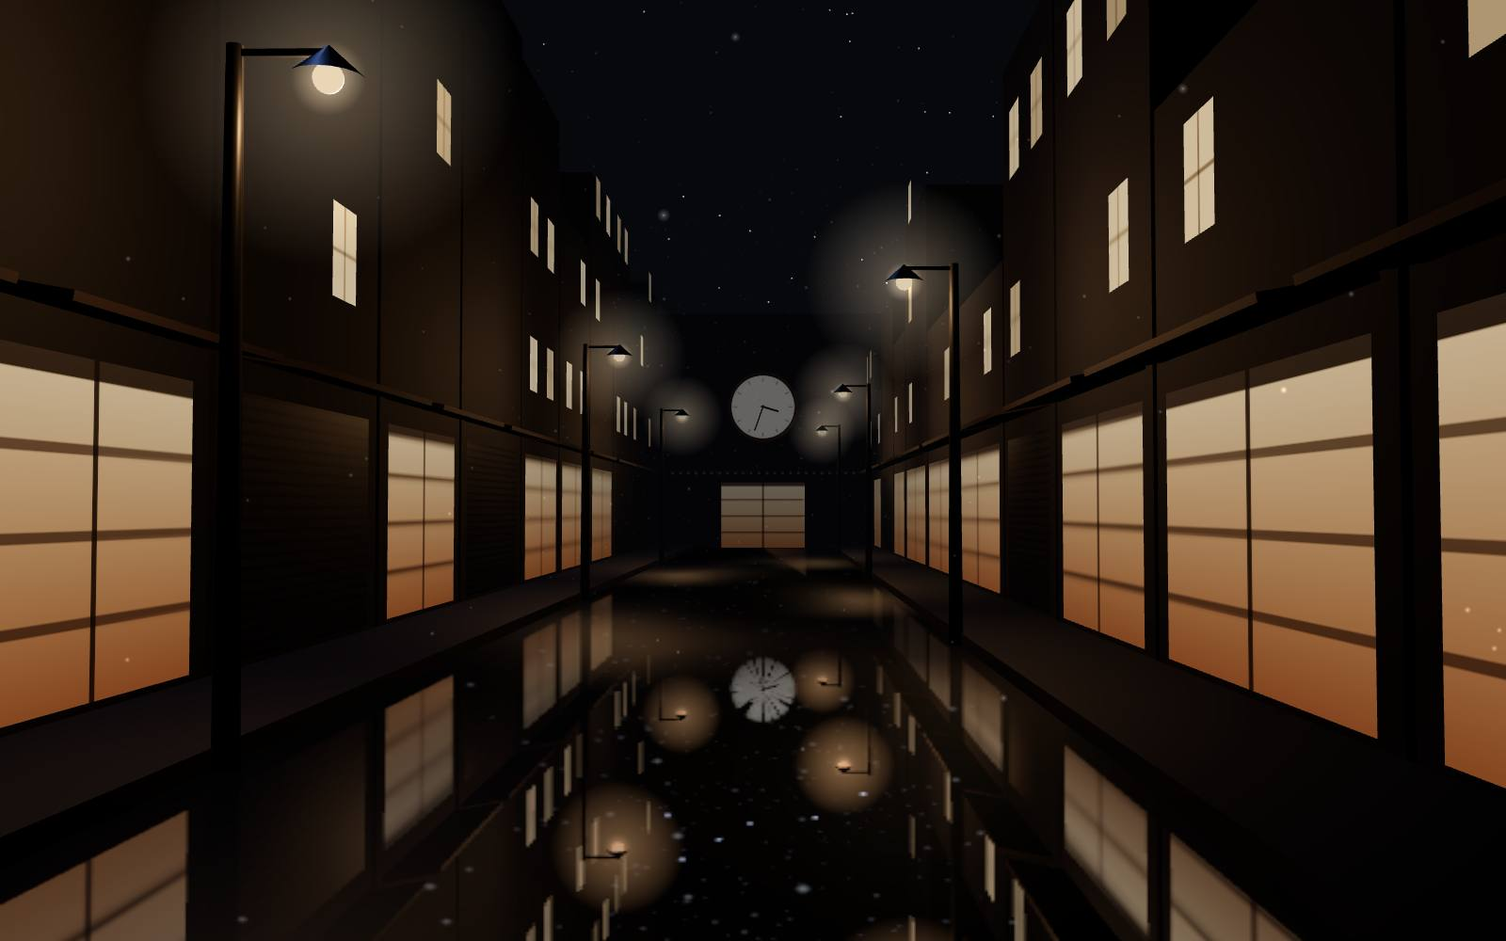
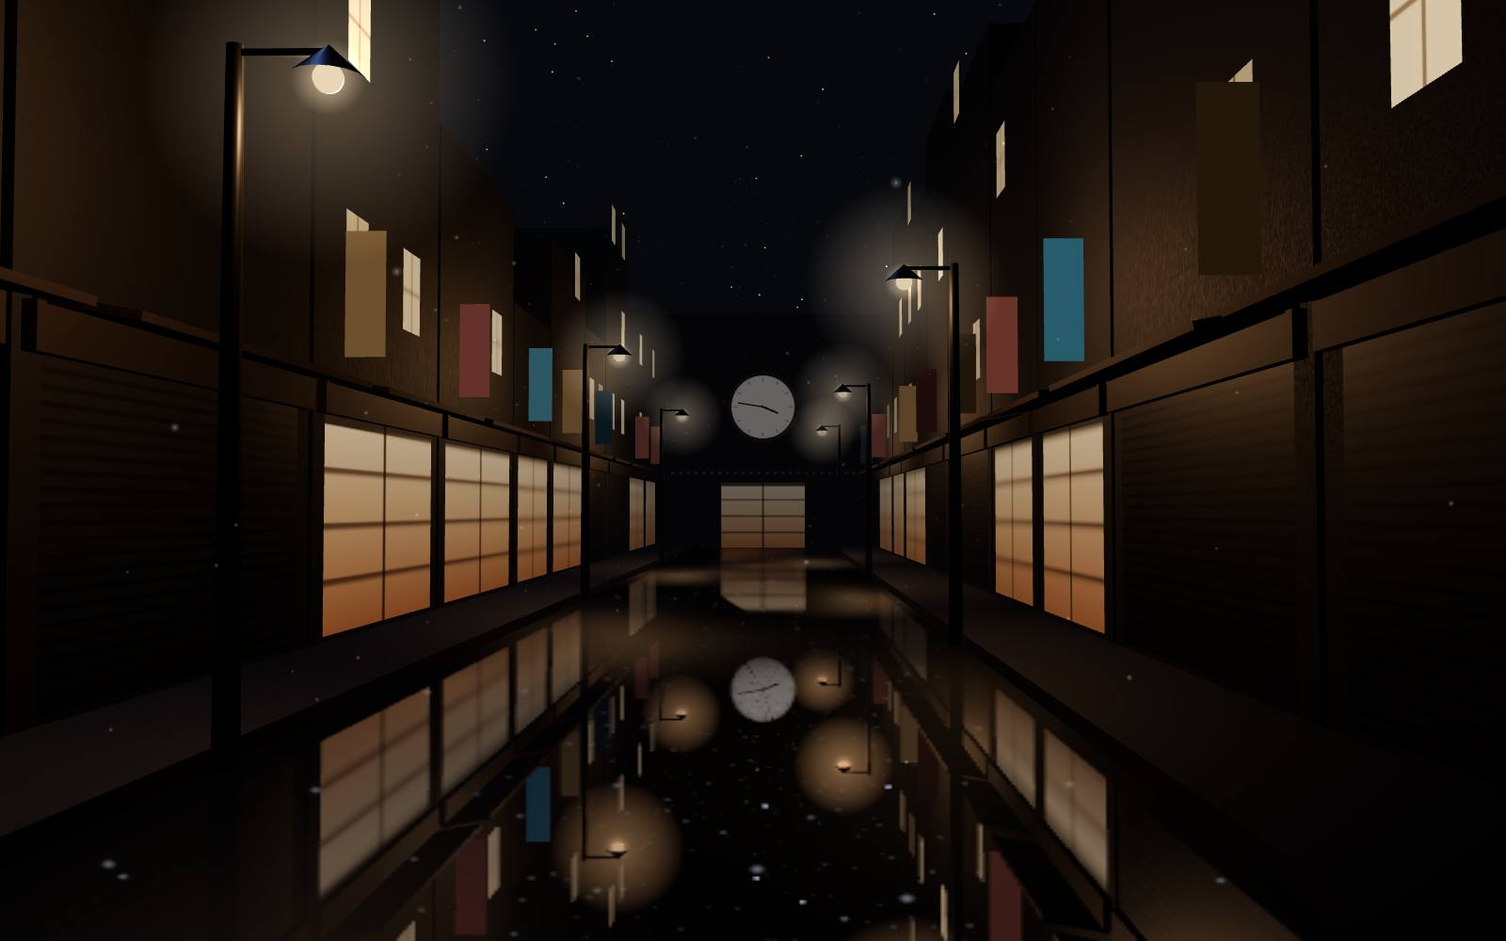
S02-02：審査1回目の指摘を反映（明朝の英字の欠け、320px のはみ出し、物語は6本の街灯が順に消えて店も閉じる、出演は選んだ人の灯へ寄る、袖看板と幕板、表記の統一）
Claude-Session: https://claude.ai/code/session_01BwmUGTgfPEj1Tu5124aDtq

diff --git a/studio/projects/S02-02-hoshikuzu/site/app.js b/studio/projects/S02-02-hoshikuzu/site/app.js
@@ -8,8 +8,8 @@ const md = s => { const [, m, d] = s.split('-').map(Number); return `${m}.${d}`;
 
 // 文字（facts.json から）
 $('genre').textContent = F.genre; $('kana').textContent = F.kana; $('title').textContent = F.title; $('en').textContent = F.en; $('copy').textContent = F.copy;
-$('when').append(md(F.period.from), el('small', null, F.period.from_wd), '— ', md(F.period.to), el('small', null, F.period.to_wd), el('small', null, `${F.period.from.slice(0, 4)}年`));
-$('where').textContent = `${F.venue}（客席${F.seats}席）`;
+$('when').append(el('span', 'yr', F.period.from.slice(0, 4)), md(F.period.from), el('small', null, F.period.from_wd), '— ', md(F.period.to), el('small', null, F.period.to_wd));
+$('where').textContent = `${F.venue}（全${F.seats}席）`;
 for (const p of F.story) $('story').append(el('p', null, p));
 for (const s of F.scenes) { const li = el('li'); li.append(el('span', 'no', s.no), el('span', 't', s.title), el('span', 'x', s.text)); $('scenes').append(li); }
 for (const [k, v] of F.credits) $('credits').append(el('dt', null, k), el('dd', null, v));
@@ -19,8 +19,8 @@ const cards = F.cast.map((c, i) => {
 });
 const sale = $('sale'); sale.append(`${F.sale.date.slice(0, 4)}.${md(F.sale.date)}`, el('small', null, `（${F.sale.wd}）${F.sale.label}`));
 const row = (k, v) => { const d = el('div'); d.append(el('dt', null, k), el('dd', null, v)); $('tinfo').append(d); };
-row('期間', `${F.period.from.replaceAll('-', '.')}（${F.period.from_wd}）〜${md(F.period.to)}（${F.period.to_wd}）`);
-row('開演', F.times.map(([a, b]) => `${a} ${b}`).join('　')); row('上演時間', F.running); row('劇場', `${F.venue}（全${F.seats}席）`);
+row('期間', `${F.period.from.slice(0, 4)}.${md(F.period.from)}（${F.period.from_wd}）— ${md(F.period.to)}（${F.period.to_wd}）`);
+F.times.forEach(([a, b], i) => row(i ? '' : '開演', `${a}　${b}`)); row('上演時間', F.running); row('劇場', `${F.venue}（全${F.seats}席）`);
 for (const [k, v] of F.prices) { const li = el('li', null, k); li.append(el('b', null, v)); $('price').append(li); }
 $('pnote').textContent = F.price_note;
 $('buy').addEventListener('click', () => { $('msg').textContent = '見本のため、チケットの申し込みはできません。'; });
@@ -69,7 +69,10 @@ route(true);
   for (const sx of [-1, 1]) { const curb = new THREE.Mesh(new THREE.BoxGeometry(1.4, .14, 90), stone); curb.position.set(sx * 3.3, .07, -18); scene.add(curb); }
 
   // 両側の店：1階は店の窓（開いている店は灯り、閉じた店はシャッター）、上の階は窓がまばらに灯る
-  const wall = new THREE.MeshStandardMaterial({ color: 0x15161b, roughness: .92 });
+  const grit = canvasTex(256, 256, (g, w, h) => { const im = g.createImageData(w, h); for (let k = 0; k < w * h; k++) { const v = 205 + rnd() * 50; im.data.set([v, v, v, 255], k * 4); } g.putImageData(im, 0, 0); });
+  grit.wrapS = grit.wrapT = THREE.RepeatWrapping; grit.repeat.set(3, 3);
+  const wall = new THREE.MeshStandardMaterial({ color: 0x1a1b21, roughness: 1, map: grit, roughnessMap: grit });
+  const fascia = new THREE.MeshStandardMaterial({ color: 0x221c18, roughness: .7 });
   const shopTex = canvasTex(256, 160, (g, w, h) => { const gr = g.createLinearGradient(0, 0, 0, h); gr.addColorStop(0, '#ffdcae'); gr.addColorStop(1, '#a8673a'); g.fillStyle = gr; g.fillRect(0, 0, w, h); g.fillStyle = 'rgba(40,24,12,.55)'; for (let y = 40; y < h; y += 40) g.fillRect(0, y, w, 5); g.fillStyle = 'rgba(30,18,10,.8)'; g.fillRect(0, 0, w, 10); g.fillRect(w / 2 - 3, 0, 6, h); });
   const shutTex = canvasTex(64, 128, (g, w, h) => { g.fillStyle = '#2a2b30'; g.fillRect(0, 0, w, h); g.fillStyle = '#1a1b1f'; for (let y = 0; y < h; y += 6) g.fillRect(0, y, w, 2); });
   const winTex = canvasTex(32, 48, (g, w, h) => { g.fillStyle = '#ffd9a6'; g.fillRect(0, 0, w, h); g.fillStyle = 'rgba(60,40,20,.5)'; g.fillRect(w / 2 - 1, 0, 2, h); g.fillRect(0, h / 2 - 1, w, 2); });
@@ -81,7 +84,10 @@ route(true);
       const open = rnd() > .45;  // 店の正面（通りに向く面）は x=±4.0
       const m = new THREE.Mesh(new THREE.PlaneGeometry(wdt - .7, 2.3), open ? new THREE.MeshStandardMaterial({ color: 0x000000, emissive: 0xffffff, emissiveMap: shopTex, emissiveIntensity: .5 }) : new THREE.MeshStandardMaterial({ map: shutTex, roughness: .6, metalness: .5 }));
       m.position.set(sx * 3.99, 1.35, cz); m.rotation.y = -sx * Math.PI / 2; scene.add(m);
-      if (open) shops.push(m.material);
+      if (open) shops.push({ m: m.material, sx, z: cz, I: .5, tI: .5, at: 0 });
+      const fb = new THREE.Mesh(new THREE.BoxGeometry(.1, .32, wdt - .3), fascia); fb.position.set(sx * 3.95, 2.62, cz); scene.add(fb);
+      // 袖看板（店名は載せない色の面）。通りの奥へ向けて張り出す
+      if (rnd() > .3) { const sg = new THREE.Mesh(new THREE.PlaneGeometry(.42, 1.3), new THREE.MeshStandardMaterial({ color: 0, emissive: new THREE.Color().setHSL([.02, .08, .55, .95][Math.floor(rnd() * 4)], .6, .42), emissiveIntensity: open ? .22 : .05, side: THREE.DoubleSide })); sg.position.set(sx * 3.62, 3.7, cz + wdt / 2 - .45); scene.add(sg); }
       const aw = new THREE.Mesh(new THREE.BoxGeometry(.7, .06, wdt - .5), new THREE.MeshStandardMaterial({ color: 0x241a16, roughness: .7 })); aw.position.set(sx * 3.65, 2.75, cz); aw.rotation.z = sx * .18; scene.add(aw);
       for (let f = 1; f < hgt / 2.6 - .4; f++) for (let c = -1; c <= 1; c += 2) {
         if (rnd() < .55) continue;
@@ -120,7 +126,7 @@ route(true);
     const glow = new THREE.Sprite(new THREE.SpriteMaterial({ map: glowTex, color: WARM.clone(), blending: THREE.AdditiveBlending, depthWrite: false, transparent: true, fog: false })); glow.position.copy(headPos); glow.scale.setScalar(2.2); g.add(glow);
     const light = new THREE.PointLight(WARM.clone(), 0, 11, 1.6); light.position.copy(headPos).add(new THREE.Vector3(0, -.15, 0)); g.add(light);
     const world = headPos.clone().add(g.position);
-    return { light, bulbMat, glow, world, I: 0, col: WARM.clone(), tI: 0, tCol: WARM.clone(), at: 0, off: false };
+    return { light, bulbMat, glow, world, x, z, I: 0, col: WARM.clone(), tI: 0, tCol: WARM.clone(), at: 0, off: false, S: 2.2, tS: 2.2 };
   });
 
   // 空：星と、ゆっくり降る雪
@@ -141,27 +147,31 @@ route(true);
   const V = (x, y, z) => new THREE.Vector3(x, y, z);
   const POSE = {
     top: { p: V(.5, 1.45, 7), t: V(0, 2.4, -22) },
-    story: { p: V(-1.3, 1.7, -22.5), t: V(.4, 3.6, -40) },
+    story: { p: V(1.8, 2.2, 6), t: V(-.5, 2.8, -30) },
     cast: { p: V(1.3, 2.1, 4), t: V(-.4, 1.9, -14) },
     ticket: { p: V(0, 4.6, 3), t: V(0, 2.6, -40) },
   };
   const LOOK = {
     top: { lamps: () => [1, 1, 1, 1, 1, 1].map(v => [v * 16, WARM]), moon: .25, shops: .5, end: 0, marquee: 0 },
     // 物語：店が閉じるたびに街灯がひとつずつ消える。残るのは手前・中ほど・時計店の前の3本
-    story: { lamps: () => [1, 0, 1, 0, 0, 1].map(v => [v * 14, WARM]), moon: 1.1, shops: .22, end: 9, marquee: 0 },
-    cast: { lamps: () => [...F.cast.map((c, i) => [pick < 0 ? 9 : i === pick ? 30 : 2.5, new THREE.Color().setHSL(c.hue / 360, .85, .66)]), [0, WARM]], moon: .3, shops: .16, end: 0, marquee: 0 },
+    story: { lamps: () => [1, 0, 1, 0, 0, 1].map(v => [v * 14, WARM]), moon: .6, shops: .3, end: 9, marquee: 0 },
+    cast: { lamps: () => [...F.cast.map((c, i) => [pick < 0 ? 9 : i === pick ? 40 : .6, new THREE.Color().setHSL(c.hue / 360, .85, .66)]), [0, WARM]], moon: .3, shops: .16, end: 0, marquee: 0 },
     ticket: { lamps: () => [1, 1, 1, 1, 1, 1].map(v => [v * 22, WARM]), moon: .2, shops: .7, end: 18, marquee: 1 },
   };
-  let look = LOOK.top, from = null, to = POSE.top, tw = 1, twStart = 0, moonT = .25, shopT = .5, endT = 0, mq = 0, mqT = 0;
+  let twDur = 1.8, look = LOOK.top, from = null, to = POSE.top, tw = 1, twStart = 0, moonT = .25, shopT = .5, endT = 0, mq = 0, mqT = 0;
   const curP = POSE.top.p.clone(), curT = POSE.top.t.clone();
   function apply(p, first) {
     look = LOOK[p]; moonT = look.moon; shopT = look.shops; endT = look.end; mqT = look.marquee;
     const now = performance.now() / 1000, L = look.lamps();
-    lamps.forEach((l, i) => { const [I, c] = L[i]; l.off = I < l.tI - 1; l.tI = I; l.tCol.copy(c); l.at = now + (first || reduce ? 0 : (p === 'story' ? [0, .5, 0, 1.1, 1.6, 0][i] : i * .12)); });
-    from = { p: curP.clone(), t: curT.clone() }; to = POSE[p]; tw = first || reduce ? 1 : 0; twStart = now;
+    lamps.forEach((l, i) => { const [I, c] = L[i]; l.off = I < l.tI - 1; l.tI = I; l.tCol.copy(c); l.tS = p === 'cast' && i === pick ? 3.6 : 2.2; l.at = now + (first || reduce ? 0 : (p === 'story' ? [0, .6, 0, 1.2, 1.8, 0][i] : i * .12)); });
+    // 物語では、消えた街灯のそばの店も同じ瞬間に灯りを落とす（店が閉じる）
+    for (const sh of shops) { const near = lamps.find(l => Math.sign(l.x) === sh.sx && Math.abs(l.z - sh.z) < 3.4); const dark = p === 'story' && near && near.tI < 1; sh.tI = dark ? 0 : shopT; sh.at = dark ? near.at : now; }
+    from = { p: curP.clone(), t: curT.clone() }; to = POSE[p]; tw = first || reduce ? 1 : 0; twStart = now; twDur = 1.8;
+    // 出演でカードを選んだら、その人の街灯の手前へ寄る
+    if (p === 'cast' && pick >= 0) { const l = lamps[pick]; to = { p: V(-Math.sign(l.x) * .5, 2.1, l.z + 7.5), t: l.world.clone().add(V(Math.sign(l.x) * -.6, -1.7, 0)) }; twDur = 1.2; }
     if (first || reduce) { curP.copy(to.p); curT.copy(to.t); }
   }
-  onPage = apply; onPick = () => { if (page === 'cast') { apply('cast', false); tw = 1; } };
+  onPage = apply; onPick = () => { if (page === 'cast') apply('cast', false); };
   apply(page, true);
 
   function fit() { const w = box.clientWidth, h = box.clientHeight; r.setSize(w, h, false); cam.aspect = w / h; cam.fov = w < h ? 64 : 42; cam.updateProjectionMatrix(); }
@@ -179,10 +189,10 @@ route(true);
       l.I += (l.tI - l.I) * (l.off ? 1 - Math.exp(-dt * 2.5) : k); l.col.lerp(l.tCol, k);
       let I = l.I; if (l.off && now - l.at < .45 && !reduce) I *= (Math.sin((now - l.at) * 70) > 0 ? 1 : .15);
       l.light.intensity = I; l.light.color.copy(l.col);
-      const s = Math.min(1, I / 14); l.bulbMat.color.copy(l.col).multiplyScalar(.08 + s * 1.2); l.glow.material.color.copy(l.col); l.glow.material.opacity = s * .9;
+      const s = Math.min(1, I / 14); l.bulbMat.color.copy(l.col).multiplyScalar(.08 + s * 1.2); l.glow.material.color.copy(l.col); l.glow.material.opacity = s * .9; l.S += (l.tS - l.S) * k; l.glow.scale.setScalar(l.S);
     }
     moon.intensity += (moonT - moon.intensity) * k; endLight.intensity += (endT - endLight.intensity) * k; mq += (mqT - mq) * k;
-    for (const m of shops) m.emissiveIntensity += (shopT - m.emissiveIntensity) * k;
+    for (const sh of shops) { if (now >= sh.at) { sh.I += (sh.tI - sh.I) * (sh.tI < sh.I ? 1 - Math.exp(-dt * 3) : k); sh.m.emissiveIntensity = sh.I; } }
     // 時計店の電飾：3つおきに光が走る
     const ph = Math.floor(now * 6); const c = new THREE.Color();
     for (let i = 0; i < 24; i++) { const on = reduce ? 1 : ((i + ph) % 3 === 0 ? 1 : .25); bulbs.setColorAt(i, c.setRGB(1, .82, .55).multiplyScalar(.04 + mq * on * 1.4)); }
@@ -191,8 +201,8 @@ route(true);
     // 雪
     if (!reduce) { for (let i = 0; i < N; i++) { snow[i * 3 + 1] -= sv[i] * dt; snow[i * 3] += Math.sin(now * .7 + i) * .002; if (snow[i * 3 + 1] < 0) snow[i * 3 + 1] = 9; } ng.attributes.position.needsUpdate = true; }
     // カメラ：ページの移り変わりは 1.8 秒で移動、止まっている間もごくゆっくり揺れる
-    if (tw < 1) { tw = Math.min(1, (now - twStart) / 1.8); const e = ease(tw); curP.lerpVectors(from.p, to.p, e); curT.lerpVectors(from.t, to.t, e); }
-    aim.copy(curT); if (page === 'cast' && pick >= 0) aim.lerp(lamps[pick].world, .55);
+    if (tw < 1) { tw = Math.min(1, (now - twStart) / twDur); const e = ease(tw); curP.lerpVectors(from.p, to.p, e); curT.lerpVectors(from.t, to.t, e); }
+    aim.copy(curT);
     cpos.copy(curP); if (!reduce) { cpos.x += Math.sin(now * .21) * .12; cpos.y += Math.sin(now * .17) * .05; }
     cam.position.copy(cpos); cam.userData.a = cam.userData.a || curT.clone(); cam.userData.a.lerp(aim, k * .6 + (tw < 1 ? .4 : 0)); cam.lookAt(cam.userData.a);
     // 縦長の画面では、物語・出演・チケットの板が下半分を覆うので、絵の中心を上へずらす

diff --git a/studio/projects/S02-02-hoshikuzu/site/index.html b/studio/projects/S02-02-hoshikuzu/site/index.html
@@ -6,7 +6,7 @@
 <title>ミュージカル『星屑通り』公式サイト（見本）</title>
 <meta name="description" content="架空のオリジナル・ミュージカル『星屑通り』の特設サイトの見本。夜の商店街のセットの照明が、ページごとに変わる（天狼スタジオ制作）。">
 <link rel="preconnect" href="https://fonts.googleapis.com">
-<link id="fm" rel="stylesheet" href="https://fonts.googleapis.com/css2?family=Shippori+Mincho:wght@500;600&display=swap&text=0123456789%E3%80%80%E3%80%81%E3%80%82%E3%80%8C%E3%80%8D%E3%80%8E%E3%80%8F%E3%80%9C%E3%81%82%E3%81%84%E3%81%86%E3%81%88%E3%81%8A%E3%81%8B%E3%81%8C%E3%81%8D%E3%81%8F%E3%81%91%E3%81%93%E3%81%94%E3%81%95%E3%81%97%E3%81%98%E3%81%99%E3%81%9A%E3%81%9B%E3%81%9D%E3%81%9F%E3%81%A0%E3%81%A1%E3%81%A3%E3%81%A4%E3%81%A6%E3%81%A7%E3%81%A8%E3%81%A9%E3%81%AA%E3%81%AB%E3%81%AD%E3%81%AE%E3%81%AF%E3%81%B0%E3%81%B2%E3%81%B3%E3%81%B6%E3%81%B8%E3%81%B9%E3%81%BB%E3%81%BE%E3%81%BF%E3%82%80%E3%82%81%E3%82%82%E3%82%86%E3%82%88%E3%82%89%E3%82%8A%E3%82%8B%E3%82%8C%E3%82%8F%E3%82%92%E3%82%93%E3%82%A4%E3%82%A6%E3%82%A7%E3%82%AA%E3%82%AB%E3%82%B1%E3%82%B5%E3%82%B7%E3%82%B8%E3%82%B9%E3%82%BB%E3%82%BF%E3%83%81%E3%83%83%E3%83%88%E3%83%89%E3%83%8A%E3%83%96%E3%83%97%E3%83%9A%E3%83%9F%E3%83%A1%E3%83%A3%E3%83%A5%E3%83%A9%E3%83%AA%E3%83%AB%E3%83%BB%E3%83%BC%E4%B8%80%E4%B8%88%E4%B8%89%E4%B8%8A%E4%B8%8B%E4%B8%A1%E4%B8%AD%E4%B8%B8%E4%B8%BB%E4%BA%88%E4%BA%8C%E4%BA%92%E4%BA%A4%E4%BA%BA%E4%BB%98%E4%BB%A5%E4%BC%91%E4%BC%9A%E4%BD%9C%E5%81%B4%E5%85%88%E5%85%89%E5%85%A5%E5%85%A8%E5%85%AC%E5%86%85%E5%86%86%E5%86%AC%E5%87%BA%E5%88%86%E5%88%87%E5%88%9D%E5%88%A5%E5%88%B6%E5%89%8D%E5%8A%87%E5%8B%95%E5%8D%81%E5%8D%83%E5%8D%8A%E5%8F%96%E5%8F%A4%E5%8F%B3%E5%8F%B7%E5%90%8D%E5%90%91%E5%90%AB%E5%93%81%E5%93%A1%E5%95%86%E5%96%AB%E5%9B%9B%E5%9B%9E%E5%9C%9F%E5%9C%A8%E5%9D%82%E5%A0%B1%E5%A0%B4%E5%A3%8A%E5%A3%B2%E5%A4%89%E5%A4%9C%E5%A4%A7%E5%A4%A9%E5%A7%94%E5%A8%98%E5%AD%90%E5%AD%97%E5%AE%88%E5%AE%9A%E5%AE%9F%E5%AE%A2%E5%AE%AE%E5%AE%B5%E5%AF%84%E5%B0%8F%E5%B0%91%E5%B1%91%E5%B7%A6%E5%B8%AB%E5%B8%AD%E5%B8%B3%E5%B9%95%E5%B9%B3%E5%B9%B4%E5%BA%97%E5%BB%BA%E5%BC%8F%E5%BC%95%E5%BD%93%E5%BE%8B%E5%BE%8C%E5%BF%83%E6%83%85%E6%86%A9%E6%89%80%E6%89%89%E6%89%8B%E6%8C%81%E6%8C%87%E6%8C%AF%E6%8F%BA%E6%95%B0%E6%96%87%E6%96%B9%E6%97%A5%E6%97%A9%E6%98%8E%E6%98%9F%E6%98%A0%E6%99%82%E6%9A%97%E6%9B%B8%E6%9B%BF%E6%9C%80%E6%9C%88%E6%9C%94%E6%9C%9F%E6%9C%A8%E6%9C%AC%E6%9D%BF%E6%9E%B6%E6%9F%9A%E6%A4%9C%E6%A5%BD%E6%A7%99%E6%AD%8C%E6%AD%A2%E6%AD%A3%E6%AD%B3%E6%AE%8B%E6%B0%B4%E6%B1%90%E6%B1%BA%E6%B5%81%E6%B5%B7%E6%B6%88%E6%BA%90%E6%BC%94%E6%BE%AA%E6%BF%A1%E7%80%AC%E7%81%AF%E7%82%B9%E7%85%A7%E7%89%A9%E7%89%B9%E7%8B%BC%E7%94%9F%E7%94%B3%E7%94%BA%E7%94%BB%E7%95%AA%E7%99%BA%E7%9B%B4%E7%9C%9F%E7%9D%80%E7%A2%BA%E7%A7%92%E7%A7%BB%E7%A8%8E%E7%A9%BA%E7%AA%81%E7%AA%93%E7%AB%8B%E7%B4%84%E7%B4%A2%E7%B5%A1%E7%B5%B5%E7%B8%A6%E8%80%81%E8%80%85%E8%87%AA%E8%88%AC%E8%8C%B6%E8%90%BD%E8%96%84%E8%A1%97%E8%A3%BD%E8%A6%86%E8%A6%8B%E8%A6%9A%E8%A6%B3%E8%A7%92%E8%A8%88%E8%A8%AD%E8%A9%B1%E8%AA%8D%E8%AA%9E%E8%AA%AD%E8%AA%B0%E8%AA%BF%E8%B2%A9%E8%B3%80%E8%B5%B0%E8%B7%AF%E8%BC%89%E8%BE%BC%E8%BF%91%E9%80%9A%E9%80%A3%E9%81%B8%E9%87%8D%E9%87%91%E9%95%B7%E9%96%89%E9%96%8B%E9%96%93%E9%99%8D%E9%9A%8E%E9%9B%86%E9%9B%AA%E9%9B%BB%E9%9D%A2%E9%9F%B3%E9%A1%8C%E9%A3%BE%E9%B3%B4%E9%BB%92%E9%BD%A2%EF%BC%88%EF%BC%89%EF%BC%8F%EF%BC%9A%EF%BD%9C">
+<link id="fm" rel="stylesheet" href="https://fonts.googleapis.com/css2?family=Shippori+Mincho:wght@500;600&display=swap&text=-0123456789ABCDEFGHIJKLMNOPQRSTUVWXYZ%E3%80%80%E3%80%81%E3%80%82%E3%80%8C%E3%80%8D%E3%80%8E%E3%80%8F%E3%80%9C%E3%81%82%E3%81%84%E3%81%86%E3%81%88%E3%81%8A%E3%81%8B%E3%81%8C%E3%81%8D%E3%81%8F%E3%81%91%E3%81%93%E3%81%94%E3%81%95%E3%81%97%E3%81%98%E3%81%99%E3%81%9A%E3%81%9B%E3%81%9D%E3%81%9F%E3%81%A0%E3%81%A1%E3%81%A3%E3%81%A4%E3%81%A6%E3%81%A7%E3%81%A8%E3%81%A9%E3%81%AA%E3%81%AB%E3%81%AD%E3%81%AE%E3%81%AF%E3%81%B0%E3%81%B2%E3%81%B3%E3%81%B6%E3%81%B8%E3%81%B9%E3%81%BB%E3%81%BE%E3%81%BF%E3%82%80%E3%82%81%E3%82%82%E3%82%86%E3%82%88%E3%82%89%E3%82%8A%E3%82%8B%E3%82%8C%E3%82%8F%E3%82%92%E3%82%93%E3%82%A4%E3%82%A6%E3%82%A7%E3%82%AA%E3%82%AB%E3%82%B1%E3%82%B5%E3%82%B7%E3%82%B8%E3%82%B9%E3%82%BB%E3%82%BF%E3%83%81%E3%83%83%E3%83%88%E3%83%89%E3%83%8A%E3%83%96%E3%83%97%E3%83%9A%E3%83%9F%E3%83%A1%E3%83%A3%E3%83%A5%E3%83%A9%E3%83%AA%E3%83%AB%E3%83%BB%E3%83%BC%E4%B8%80%E4%B8%88%E4%B8%89%E4%B8%8A%E4%B8%8B%E4%B8%A1%E4%B8%AD%E4%B8%B8%E4%B8%BB%E4%BA%88%E4%BA%8C%E4%BA%92%E4%BA%A4%E4%BA%BA%E4%BB%98%E4%BB%A5%E4%BC%91%E4%BC%9A%E4%BD%9C%E5%81%B4%E5%85%88%E5%85%89%E5%85%A5%E5%85%A8%E5%85%AC%E5%86%85%E5%86%86%E5%86%AC%E5%87%BA%E5%88%86%E5%88%87%E5%88%9D%E5%88%A5%E5%88%B6%E5%89%8D%E5%8A%87%E5%8B%95%E5%8D%81%E5%8D%83%E5%8D%8A%E5%8F%96%E5%8F%A4%E5%8F%B3%E5%8F%B7%E5%90%8C%E5%90%8D%E5%90%91%E5%90%AB%E5%93%81%E5%93%A1%E5%95%86%E5%96%AB%E5%9B%9B%E5%9B%9E%E5%9C%9F%E5%9C%A8%E5%9D%82%E5%A0%B1%E5%A0%B4%E5%A3%8A%E5%A3%B2%E5%A4%89%E5%A4%9C%E5%A4%A7%E5%A4%A9%E5%A5%A5%E5%A7%94%E5%A8%98%E5%AD%90%E5%AD%97%E5%AE%88%E5%AE%9A%E5%AE%9F%E5%AE%AE%E5%AE%B5%E5%AF%84%E5%B0%8F%E5%B0%91%E5%B1%91%E5%B7%A6%E5%B8%AB%E5%B8%AD%E5%B8%B3%E5%B9%95%E5%B9%B3%E5%B9%B4%E5%BA%97%E5%BB%BA%E5%BC%8F%E5%BC%95%E5%BC%B5%E5%BD%93%E5%BE%8B%E5%BE%8C%E5%BF%83%E6%83%85%E6%86%A9%E6%89%80%E6%89%89%E6%89%8B%E6%8C%81%E6%8C%87%E6%8C%AF%E6%8F%BA%E6%95%B0%E6%96%87%E6%96%B9%E6%97%A5%E6%97%A9%E6%98%8E%E6%98%9F%E6%98%A0%E6%99%82%E6%9A%97%E6%9B%B8%E6%9B%BF%E6%9C%80%E6%9C%88%E6%9C%94%E6%9C%9F%E6%9C%A8%E6%9C%AC%E6%9D%BF%E6%9E%B6%E6%9F%9A%E6%A4%9C%E6%A5%BD%E6%A7%99%E6%AD%8C%E6%AD%A2%E6%AD%A3%E6%AD%B3%E6%AE%8B%E6%B0%B4%E6%B1%90%E6%B1%BA%E6%B5%81%E6%B5%B7%E6%B6%88%E6%BA%90%E6%BC%94%E6%BE%AA%E6%BF%A1%E7%80%AC%E7%81%AF%E7%82%B9%E7%85%A7%E7%89%A9%E7%89%B9%E7%8B%BC%E7%94%9F%E7%94%B3%E7%94%BA%E7%94%BB%E7%95%AA%E7%99%BA%E7%9B%B4%E7%9C%8B%E7%9C%9F%E7%9D%80%E7%9E%AC%E7%A2%BA%E7%A7%92%E7%A7%BB%E7%A8%8E%E7%A9%BA%E7%AA%81%E7%AA%93%E7%AB%8B%E7%B4%84%E7%B4%A2%E7%B5%A1%E7%B5%B5%E7%B8%A6%E8%80%81%E8%80%85%E8%87%AA%E8%88%AC%E8%89%B2%E8%8C%B6%E8%90%BD%E8%96%84%E8%A1%97%E8%A2%96%E8%A3%BD%E8%A6%86%E8%A6%8B%E8%A6%9A%E8%A6%B3%E8%A7%92%E8%A8%88%E8%A8%AD%E8%A9%B1%E8%AA%8D%E8%AA%9E%E8%AA%AD%E8%AA%B0%E8%AA%BF%E8%B2%A9%E8%B3%80%E8%B5%B0%E8%B7%AF%E8%BC%89%E8%BE%BC%E8%BF%91%E9%80%9A%E9%80%A3%E9%81%B8%E9%87%8D%E9%87%91%E9%95%B7%E9%96%89%E9%96%8B%E9%96%93%E9%99%8D%E9%9A%8E%E9%9B%86%E9%9B%AA%E9%9B%BB%E9%9D%A2%E9%9F%B3%E9%A1%8C%E9%A3%BE%E9%B3%B4%E9%BB%92%E9%BD%A2%EF%BC%88%EF%BC%89%EF%BC%8F%EF%BC%9A%EF%BD%9C">
 <link rel="stylesheet" href="https://fonts.googleapis.com/css2?family=Noto+Sans+JP:wght@400;500&family=Jost:wght@300;400&display=swap">
 <link rel="stylesheet" href="style.css">
 <script type="importmap">{"imports":{"three":"https://cdn.jsdelivr.net/npm/three@0.160.0/build/three.module.js","three/addons/":"https://cdn.jsdelivr.net/npm/three@0.160.0/examples/jsm/"}}</script>

diff --git a/studio/projects/S02-02-hoshikuzu/site/style.css b/studio/projects/S02-02-hoshikuzu/site/style.css
@@ -35,8 +35,11 @@ h1:focus, h2:focus { outline: none; }
 main { position: relative; z-index: 1; }
 .page { min-height: calc(100svh - 56px); display: flex; flex-direction: column; justify-content: flex-end; padding: 0 16px 32px; }
 .page[hidden] { display: none; }
-.page.enter > * { animation: rise .7s cubic-bezier(.2, .7, .2, 1) both; }
-@keyframes rise { from { opacity: 0; transform: translateY(16px); } }
+.page.enter > * > * { animation: rise .8s cubic-bezier(.2, .7, .2, 1) .5s both; }
+.page.enter > * > :nth-child(2) { animation-delay: .56s; } .page.enter > * > :nth-child(3) { animation-delay: .62s; } .page.enter > * > :nth-child(n+4) { animation-delay: .68s; }
+.page.enter > .panel { animation: fade .5s ease-out .4s both; }
+@keyframes fade { from { opacity: 0; } }
+@keyframes rise { from { opacity: 0; transform: translateY(20px); } }
 
 /* トップ */
 .hero { position: relative; padding: 140px 8px 8px; }
@@ -47,6 +50,7 @@ main { position: relative; z-index: 1; }
 .en { margin: 8px 0 0; font: 300 14px/1 var(--num); letter-spacing: .5em; color: var(--amber); }
 .copy { margin: 22px 0 0; font: 500 17px/1.9 var(--mincho); letter-spacing: .1em; max-width: 30em; }
 .when { margin: 20px 0 0; font: 300 clamp(26px, 7vw, 38px)/1.3 var(--num); font-variant-numeric: tabular-nums; letter-spacing: .04em; }
+.when .yr { display: block; font: 300 12px/1 var(--num); letter-spacing: .3em; color: var(--sub); margin-bottom: 8px; }
 .when small { font: 500 14px/1 var(--sans); color: var(--sub); margin: 0 6px 0 3px; }
 .where { margin: 4px 0 0; color: var(--sub); }
 .go { margin: 24px 0 0; display: flex; flex-wrap: wrap; gap: 12px; }
@@ -73,7 +77,8 @@ main { position: relative; z-index: 1; }
 
 /* 出演：ひとりにひとつの灯りのガラスのカード */
 .cast { list-style: none; padding: 0; margin: 0; display: grid; grid-template-columns: repeat(auto-fill, minmax(176px, 1fr)); gap: 12px; }
-.card { position: relative; width: 100%; min-height: 168px; padding: 18px 16px 16px; text-align: left; color: var(--ink); font: inherit; cursor: pointer; border-radius: 6px; border: 1px solid rgba(255, 255, 255, .16); background: linear-gradient(160deg, rgba(255, 255, 255, .1), rgba(255, 255, 255, .02)); overflow: hidden; transition: border-color .3s, transform .3s; }
+.cast li { display: flex; }
+.card { position: relative; width: 100%; height: 100%; min-height: 168px; padding: 18px 16px 16px; text-align: left; color: var(--ink); font: inherit; cursor: pointer; border-radius: 6px; border: 1px solid rgba(255, 255, 255, .16); background: linear-gradient(160deg, rgba(255, 255, 255, .1), rgba(255, 255, 255, .02)); overflow: hidden; transition: border-color .3s, transform .3s; }
 .card::before { content: ""; position: absolute; left: 50%; top: -60px; width: 200px; height: 160px; margin-left: -100px; background: radial-gradient(closest-side, hsla(var(--h), 90%, 70%, .55), hsla(var(--h), 90%, 60%, 0)); opacity: .45; transition: opacity .3s; pointer-events: none; }
 .card .bulb { position: absolute; left: 50%; top: 10px; width: 8px; height: 8px; margin-left: -4px; border-radius: 50%; background: hsl(var(--h), 90%, 82%); box-shadow: 0 0 12px 3px hsla(var(--h), 90%, 70%, .8); opacity: .5; transition: opacity .3s; }
 .card .r { position: relative; display: block; margin-top: 24px; font-size: 12px; color: var(--sub); letter-spacing: .1em; }
@@ -113,5 +118,7 @@ main { position: relative; z-index: 1; }
 }
 /* スマホでは板の上にセットの照明が見える余白を残す */
 @media (max-width: 899px) { .p-story, .p-cast, .p-ticket { padding-top: 38svh; } }
-@media (min-width: 900px) { .hero::before { inset: -40px -40px -56px -40px; background: linear-gradient(to right, rgba(7, 8, 12, .85), rgba(7, 8, 12, .5) 45%, rgba(7, 8, 12, 0) 70%), linear-gradient(to top, rgba(7, 8, 12, .8), rgba(7, 8, 12, 0) 60%); } }
-@media (prefers-reduced-motion: reduce) { .page.enter > * { animation: none; } .set canvas { transition: none; } }
+@media (min-width: 900px) { .hero::before { inset: -100svh -40px -56px -40px; background: linear-gradient(to right, rgba(7, 8, 12, .85), rgba(7, 8, 12, .5) 45%, rgba(7, 8, 12, 0) 70%), linear-gradient(to top, rgba(7, 8, 12, .8), rgba(7, 8, 12, 0) 60%); } }
+@media (prefers-reduced-motion: reduce) { .page.enter > *, .page.enter > * > * { animation: none; } .set canvas { transition: none; } }
+@media (min-width: 600px) and (max-width: 899px) { .cast { grid-template-columns: repeat(2, 1fr); } .cast li:last-child:nth-child(odd) { grid-column: 1 / -1; } }
+@media (max-width: 359px) { .logo { letter-spacing: .1em; font-size: 16px; } .top { padding: 0 10px; gap: 6px; } .top nav a { padding: 0 4px; font-size: 12px; min-width: 44px; } }

diff --git a/studio/projects/S02-02-hoshikuzu/build.py b/studio/projects/S02-02-hoshikuzu/build.py
@@ -7,7 +7,7 @@ F = json.loads((H / 'facts.json').read_text())
 (S / 'data.js').write_text('// facts.json から生成（手で書き換えない）\nexport const F = ' + json.dumps(F, ensure_ascii=False) + ';\n')
 html = (S / 'index.html').read_text()
 src = json.dumps(F, ensure_ascii=False) + (S / 'app.js').read_text() + html
-chars = ''.join(sorted(set(re.findall(r'[　-ヿ一-鿿＀-￯]', src)) | set('0123456789')))
+chars = ''.join(sorted(set(re.findall(r'[　-ヿ一-鿿＀-￯]', src)) | set('0123456789') | set('ABCDEFGHIJKLMNOPQRSTUVWXYZ-')))
 url = 'https://fonts.googleapis.com/css2?family=Shippori+Mincho:wght@500;600&display=swap&text=' + urllib.parse.quote(chars)
 html = re.sub(r'<link id="fm"[^>]*>', f'<link id="fm" rel="stylesheet" href="{url}">', html)
 (S / 'index.html').write_text(html)
